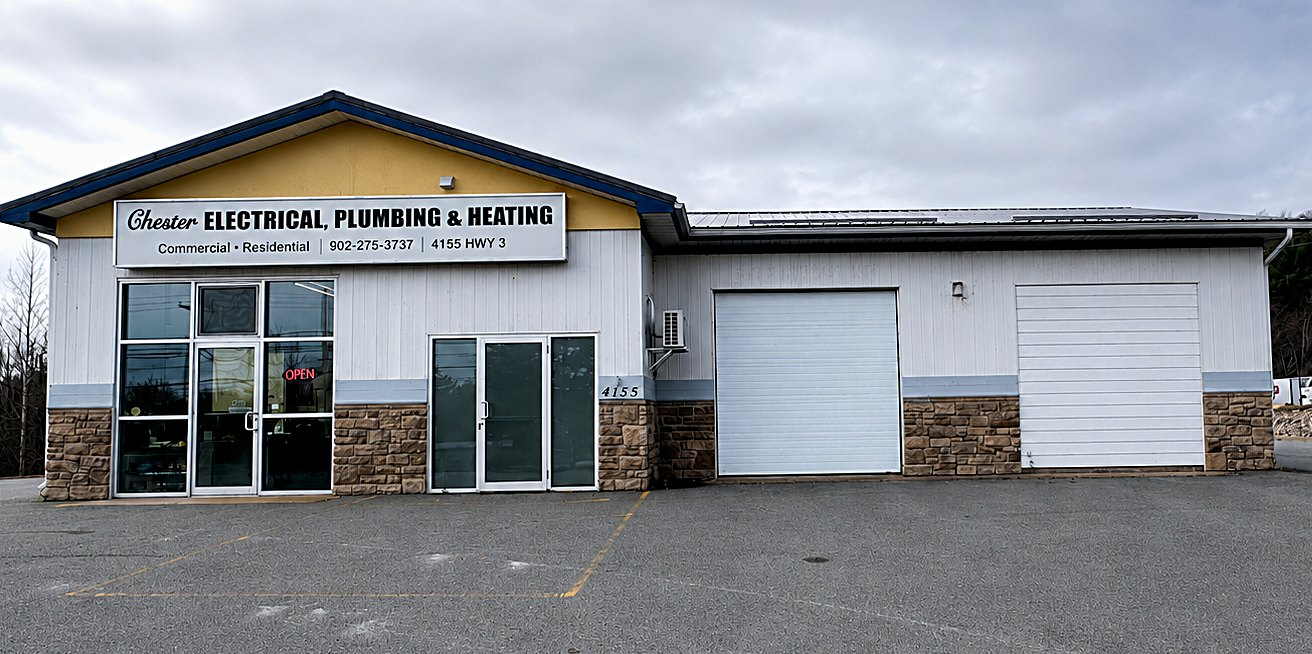
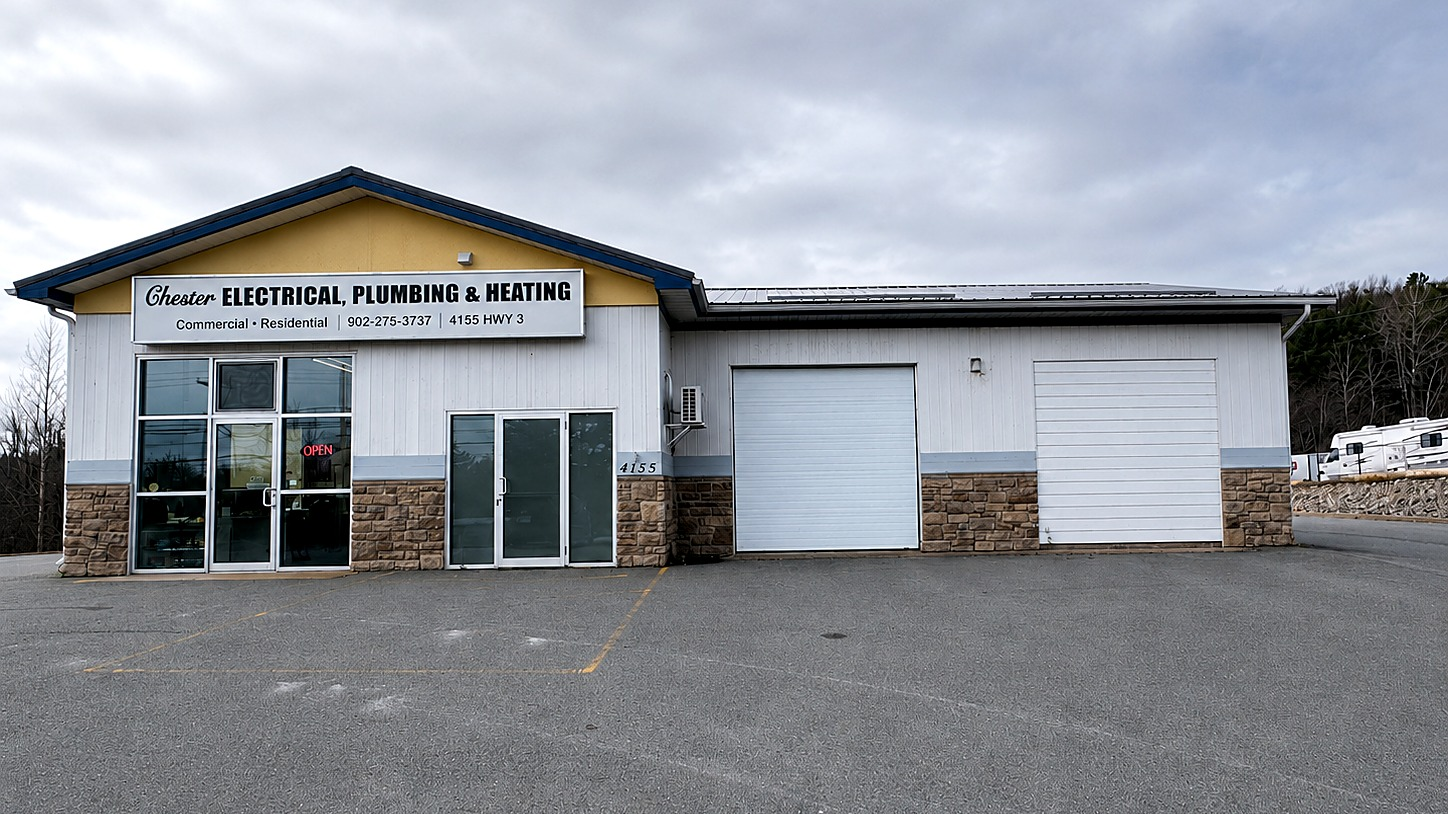
Hero: full storefront + full sign, 16:9 frame

diff --git a/components/Hero.tsx b/components/Hero.tsx
@@ -12,7 +12,7 @@ export default function Hero() {
 
       <div className="shell relative grid items-stretch gap-0 lg:grid-cols-[1.05fr_0.95fr]">
         {/* Left: copy */}
-        <div className="flex flex-col justify-center py-12 lg:py-24 lg:pr-14">
+        <div className="flex flex-col justify-center py-12 lg:py-16 lg:pr-14">
           <span className="eyebrow text-copper">
             Chester, Nova Scotia &middot; Est. {site.since}
           </span>
@@ -63,21 +63,21 @@ export default function Hero() {
         </div>
 
         {/* Right: image */}
-        <div className="relative min-h-[340px] lg:min-h-full">
-          <div className="relative h-full w-full overflow-hidden border-x-2 border-b-2 border-ink lg:border-b-2 lg:border-r-0">
+        <div className="relative lg:flex lg:min-h-full lg:items-center">
+          <div className="relative aspect-video w-full overflow-hidden border-2 border-ink">
             <div
-              className="absolute inset-0 bg-charcoal bg-cover bg-[30%_center]"
+              className="absolute inset-0 bg-charcoal bg-cover bg-center"
               style={{ backgroundImage: "url('/images/hero.jpg')" }}
               role="img"
               aria-label="Chester Electrical, Plumbing and Heating storefront on Highway 3 in Chester, Nova Scotia"
             />
-            {/* Editorial overlay: bright mid-frame keeps the sign readable,
-                deep bottom seats the badge + caption */}
+            {/* Subtle overlay: keeps the building/sign bright and clear,
+                only deepens the bottom-left corner so the badge stays legible */}
             <div
               className="absolute inset-0"
               style={{
                 background:
-                  "linear-gradient(180deg, rgba(11,10,9,0.30) 0%, rgba(11,10,9,0.08) 34%, rgba(11,10,9,0.30) 62%, rgba(11,10,9,0.82) 100%)",
+                  "linear-gradient(180deg, rgba(11,10,9,0.22) 0%, rgba(11,10,9,0.03) 18%, rgba(11,10,9,0.03) 55%, rgba(11,10,9,0.60) 100%)",
               }}
               aria-hidden
             />
@@ -85,7 +85,7 @@ export default function Hero() {
               className="absolute inset-0"
               style={{
                 background:
-                  "linear-gradient(75deg, rgba(11,10,9,0.55) 0%, rgba(11,10,9,0) 46%)",
+                  "radial-gradient(120% 120% at 0% 100%, rgba(11,10,9,0.62) 0%, rgba(11,10,9,0) 44%)",
               }}
               aria-hidden
             />
@@ -93,15 +93,15 @@ export default function Hero() {
             <Ticks />
 
             {/* Badge + trust caption lockup */}
-            <div className="absolute bottom-5 left-5 right-5 flex items-end gap-4 sm:gap-5">
-              <div className="flex h-[104px] w-[104px] flex-none flex-col items-center justify-center rounded-full border-2 border-volt bg-ink/85 text-center text-paper backdrop-blur sm:h-32 sm:w-32">
-                <span className="font-stamp text-[0.62rem] uppercase tracking-stamp text-volt">
+            <div className="absolute bottom-4 left-4 right-4 flex items-end gap-3 sm:bottom-5 sm:left-5 sm:right-5 sm:gap-5">
+              <div className="flex h-[84px] w-[84px] flex-none flex-col items-center justify-center rounded-full border-2 border-volt bg-ink/85 text-center text-paper backdrop-blur sm:h-28 sm:w-28 lg:h-32 lg:w-32">
+                <span className="font-stamp text-[0.55rem] uppercase tracking-stamp text-volt sm:text-[0.62rem]">
                   Since
                 </span>
-                <span className="font-display text-3xl font-black leading-none sm:text-4xl">
+                <span className="font-display text-2xl font-black leading-none sm:text-4xl">
                   1988
                 </span>
-                <span className="mt-1 font-stamp text-[0.55rem] uppercase tracking-[0.18em] text-paper/70">
+                <span className="mt-0.5 font-stamp text-[0.5rem] uppercase tracking-[0.18em] text-paper/70 sm:mt-1 sm:text-[0.55rem]">
                   Built Right
                 </span>
               </div>
